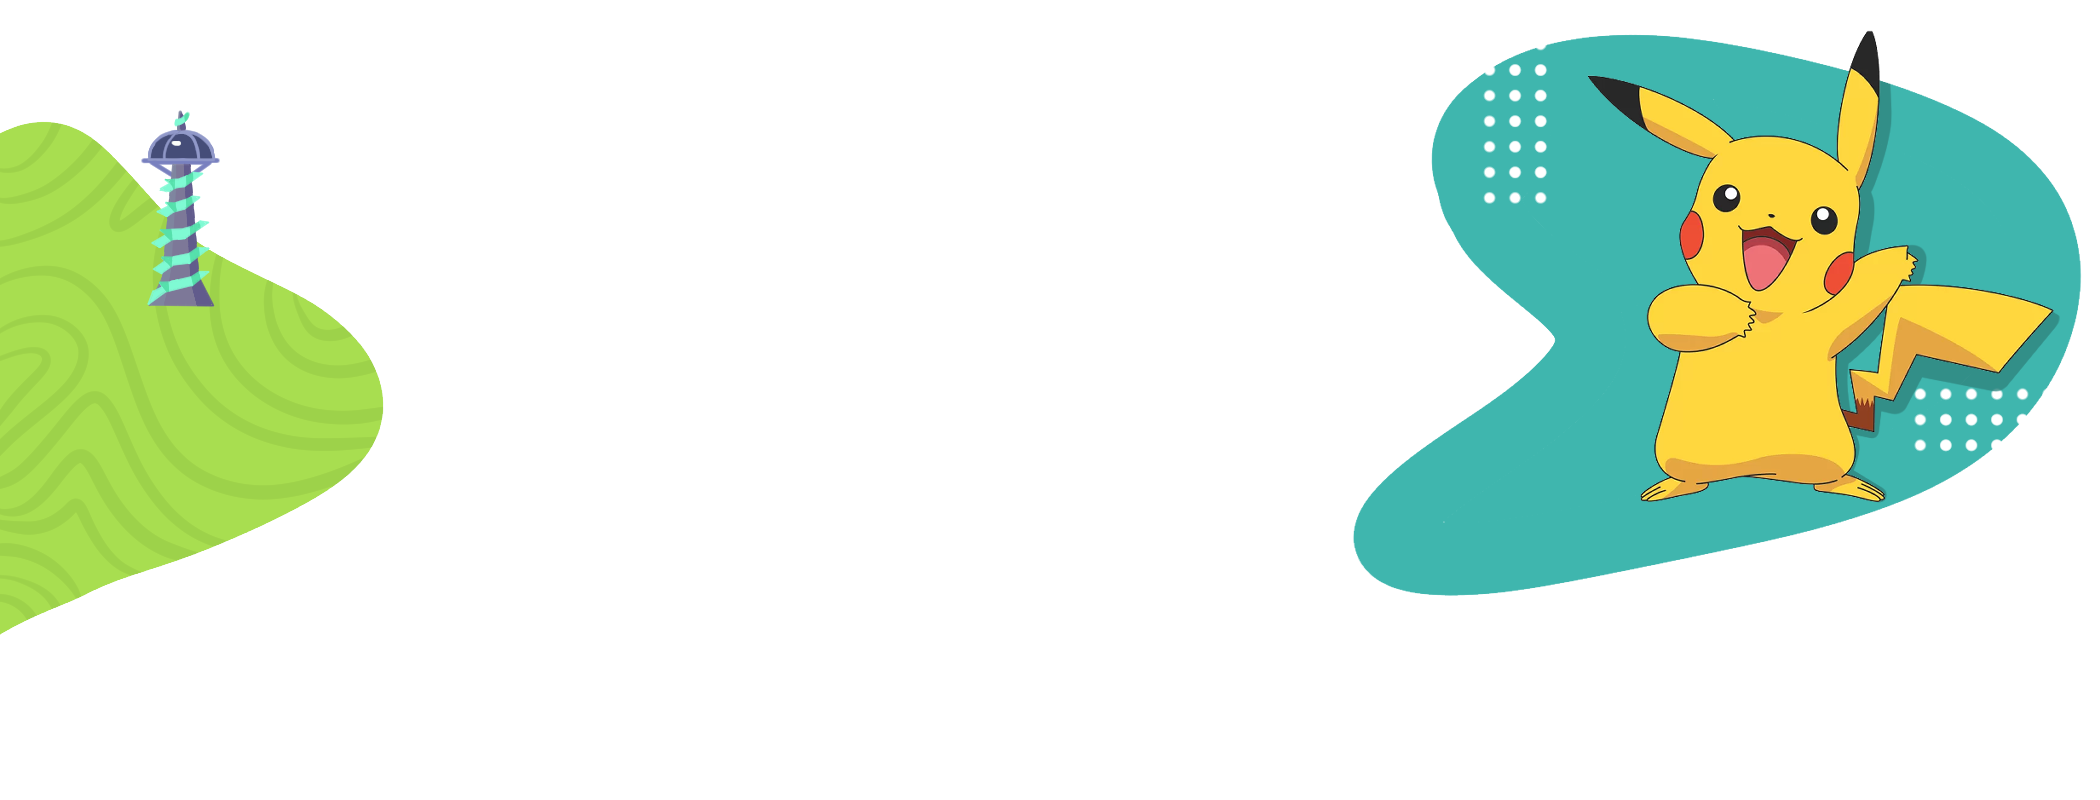
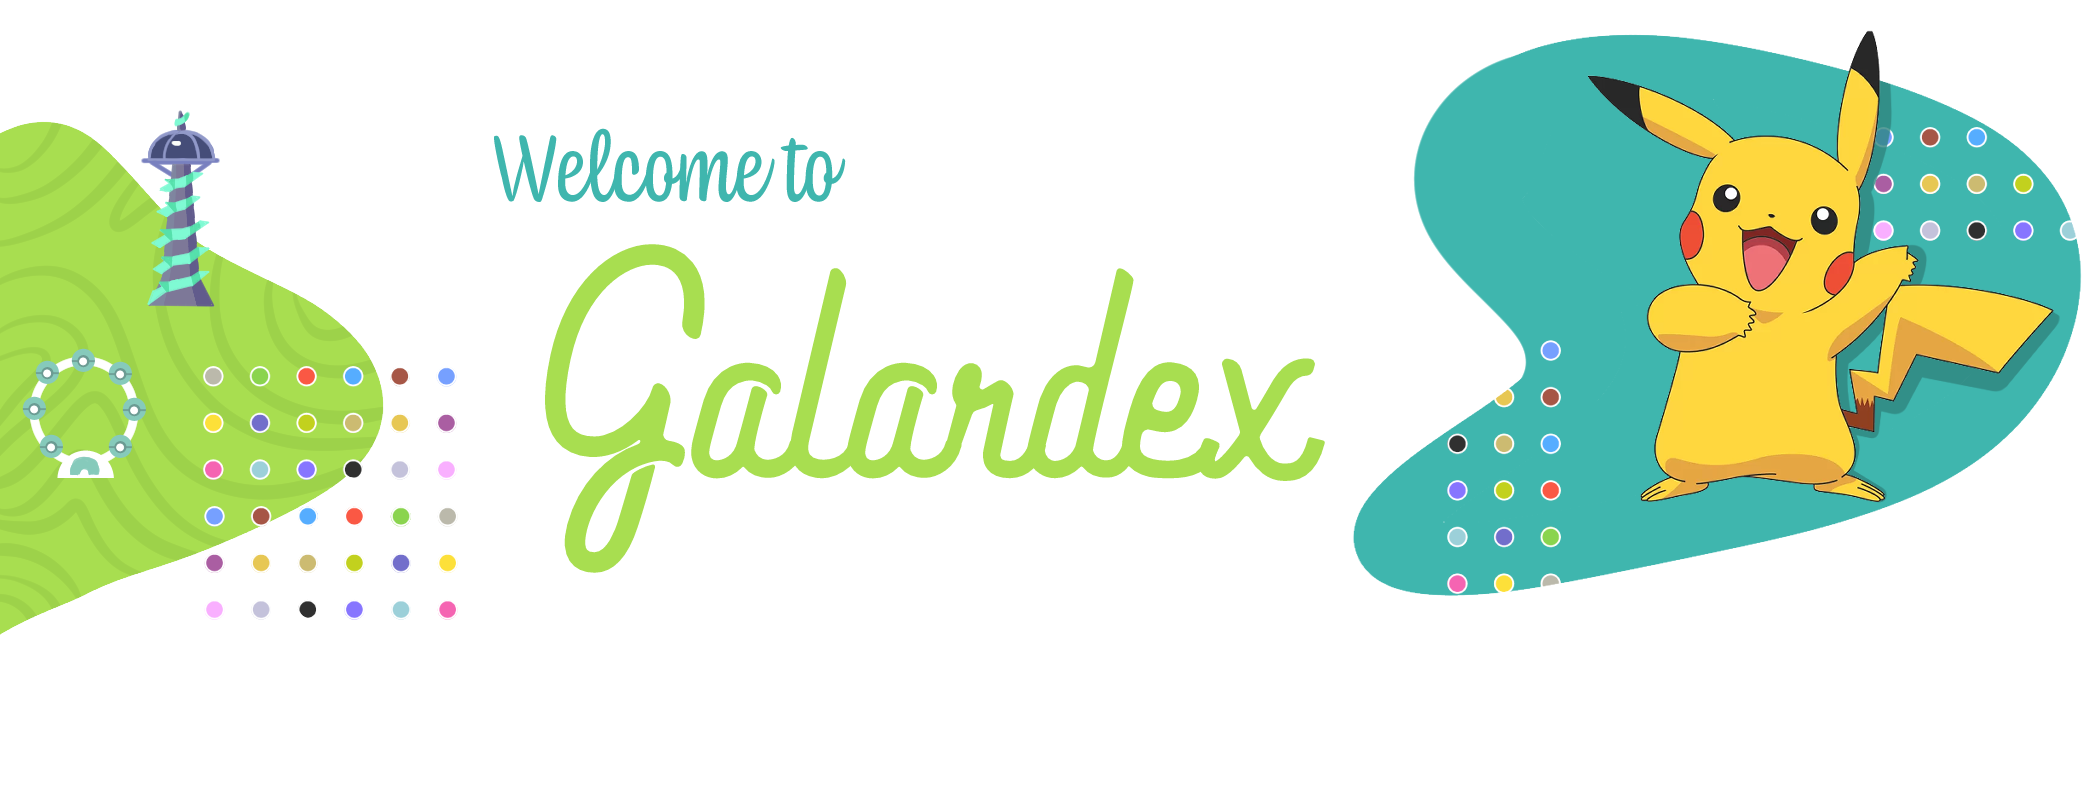
Work on homepage

diff --git a/galardex-homepage.html b/galardex-homepage.html
@@ -6,7 +6,8 @@
     <link rel="icon" href="https://img.icons8.com/color/48/000000/pokeball-2.png">
     <link href="nouislider.css" rel="stylesheet">
     <link rel="preconnect" href="https://fonts.gstatic.com">
-    <link href="https://fonts.googleapis.com/css2?family=Raleway:wght@200&family=Sansita+Swashed:wght@300&display=swap" rel="stylesheet">
+    <link href="https://fonts.googleapis.com/css2?family=Raleway:wght@200&family=Sansita+Swashed:wght@300&display=swap"
+        rel="stylesheet">
 </head>
 
 <body onresize="resized()">
@@ -15,6 +16,30 @@
 
     <div id="header">
         <img src="GalarViz_Header.png">
+    </div>
+    <div id="content">
+        <img id="pokeball" src="https://img.icons8.com/color/48/000000/pokeball-2.png">
+        <h1>About Galardex</h1>
+        <p>Lorem ipsum dolor sit amet, consectetur adipiscing elit, sed do eiusmod tempor incididunt ut labore et dolore
+            magna aliqua. Nisl rhoncus mattis rhoncus urna. Ut sem viverra aliquet eget sit amet tellus. At elementum eu
+            facilisis sed odio morbi. Condimentum mattis pellentesque id nibh tortor id aliquet lectus. Morbi tristique
+            senectus et netus et. Amet venenatis urna cursus eget. Felis eget nunc lobortis mattis. Congue mauris
+            rhoncus aenean vel elit scelerisque. Nunc id cursus metus aliquam eleifend mi in nulla posuere. Odio ut sem
+            nulla pharetra diam sit amet nisl. Tincidunt lobortis feugiat vivamus at augue eget arcu dictum varius.
+            Suspendisse interdum consectetur libero id faucibus. Aliquet nibh praesent tristique magna. Ante metus
+            dictum at tempor commodo. Hac habitasse platea dictumst quisque sagittis purus sit amet. In est ante in nibh
+            mauris cursus. Sed euismod nisi porta lorem mollis aliquam. Nisi est sit amet facilisis magna etiam tempor
+            orci eu.</p>
+
+        <p>Quisque non tellus orci ac auctor augue mauris augue neque. Turpis egestas sed tempus urna et. Tincidunt
+            augue interdum velit euismod in. Sed velit dignissim sodales ut eu sem integer. Eu scelerisque felis
+            imperdiet proin fermentum leo vel orci. Feugiat pretium nibh ipsum consequat. Volutpat maecenas volutpat
+            blandit aliquam etiam erat velit scelerisque in. Vitae semper quis lectus nulla at volutpat diam ut
+            venenatis. Tortor vitae purus faucibus ornare suspendisse. Lacinia quis vel eros donec ac odio. Purus in
+            mollis nunc sed id semper risus in hendrerit. Etiam dignissim diam quis enim lobortis scelerisque fermentum
+            dui faucibus. Gravida neque convallis a cras semper auctor neque. Eu augue ut lectus arcu bibendum at varius
+            vel pharetra. Purus ut faucibus pulvinar elementum integer enim. Phasellus faucibus scelerisque eleifend
+            donec pretium.</p>
     </div>
 
 </body>

diff --git a/galardex-homepage.css b/galardex-homepage.css
@@ -1,6 +1,42 @@
 #header{
     width: 100%;
+    background-image: url("GalarViz_Header.png");
+    background-repeat: no-repeat;
+    background-size: cover;
 }
+
 #header img{
     width: 100%;
+}
+
+#content{
+    margin: 3em;
+    margin-top: -3em;
+    margin-left: 20em;
+    margin-right: 20em;
+}
+
+#content img#pokeball{
+    display: block;
+    margin-left: auto;
+    margin-right: auto;
+    width: 2em;
+}
+
+#content h1{
+    font-size: 2em;
+    font-family: 'Sansita Swashed', cursive;
+    color: #3FB8AF;
+    text-align: center;
+    margin: 1em;
+}
+
+#content p{
+    font-family: 'Raleway', sans-serif;
+    font-weight: bold;
+    line-height: 2em;
+    font-size: 1em;
+    text-align: center;
+    margin-top: 2em;
+    margin-bottom: 2em;
 }

diff --git a/galar-visualization.js b/galar-visualization.js
@@ -183,7 +183,7 @@ TypeColors["Electric"] = "#FDE039";
 TypeColors["Psychic"] = "#F562B1";
 TypeColors["Ice"] = "#9cd1d9";
 TypeColors["Dragon"] = "#8774FF";
-TypeColors["Dark"] = "#8A6955";
+TypeColors["Dark"] = "#303030";
 TypeColors["Steel"] = "#C4C2DB";
 TypeColors["Fairy"] = "#F9AEFF";
 //#endregion
